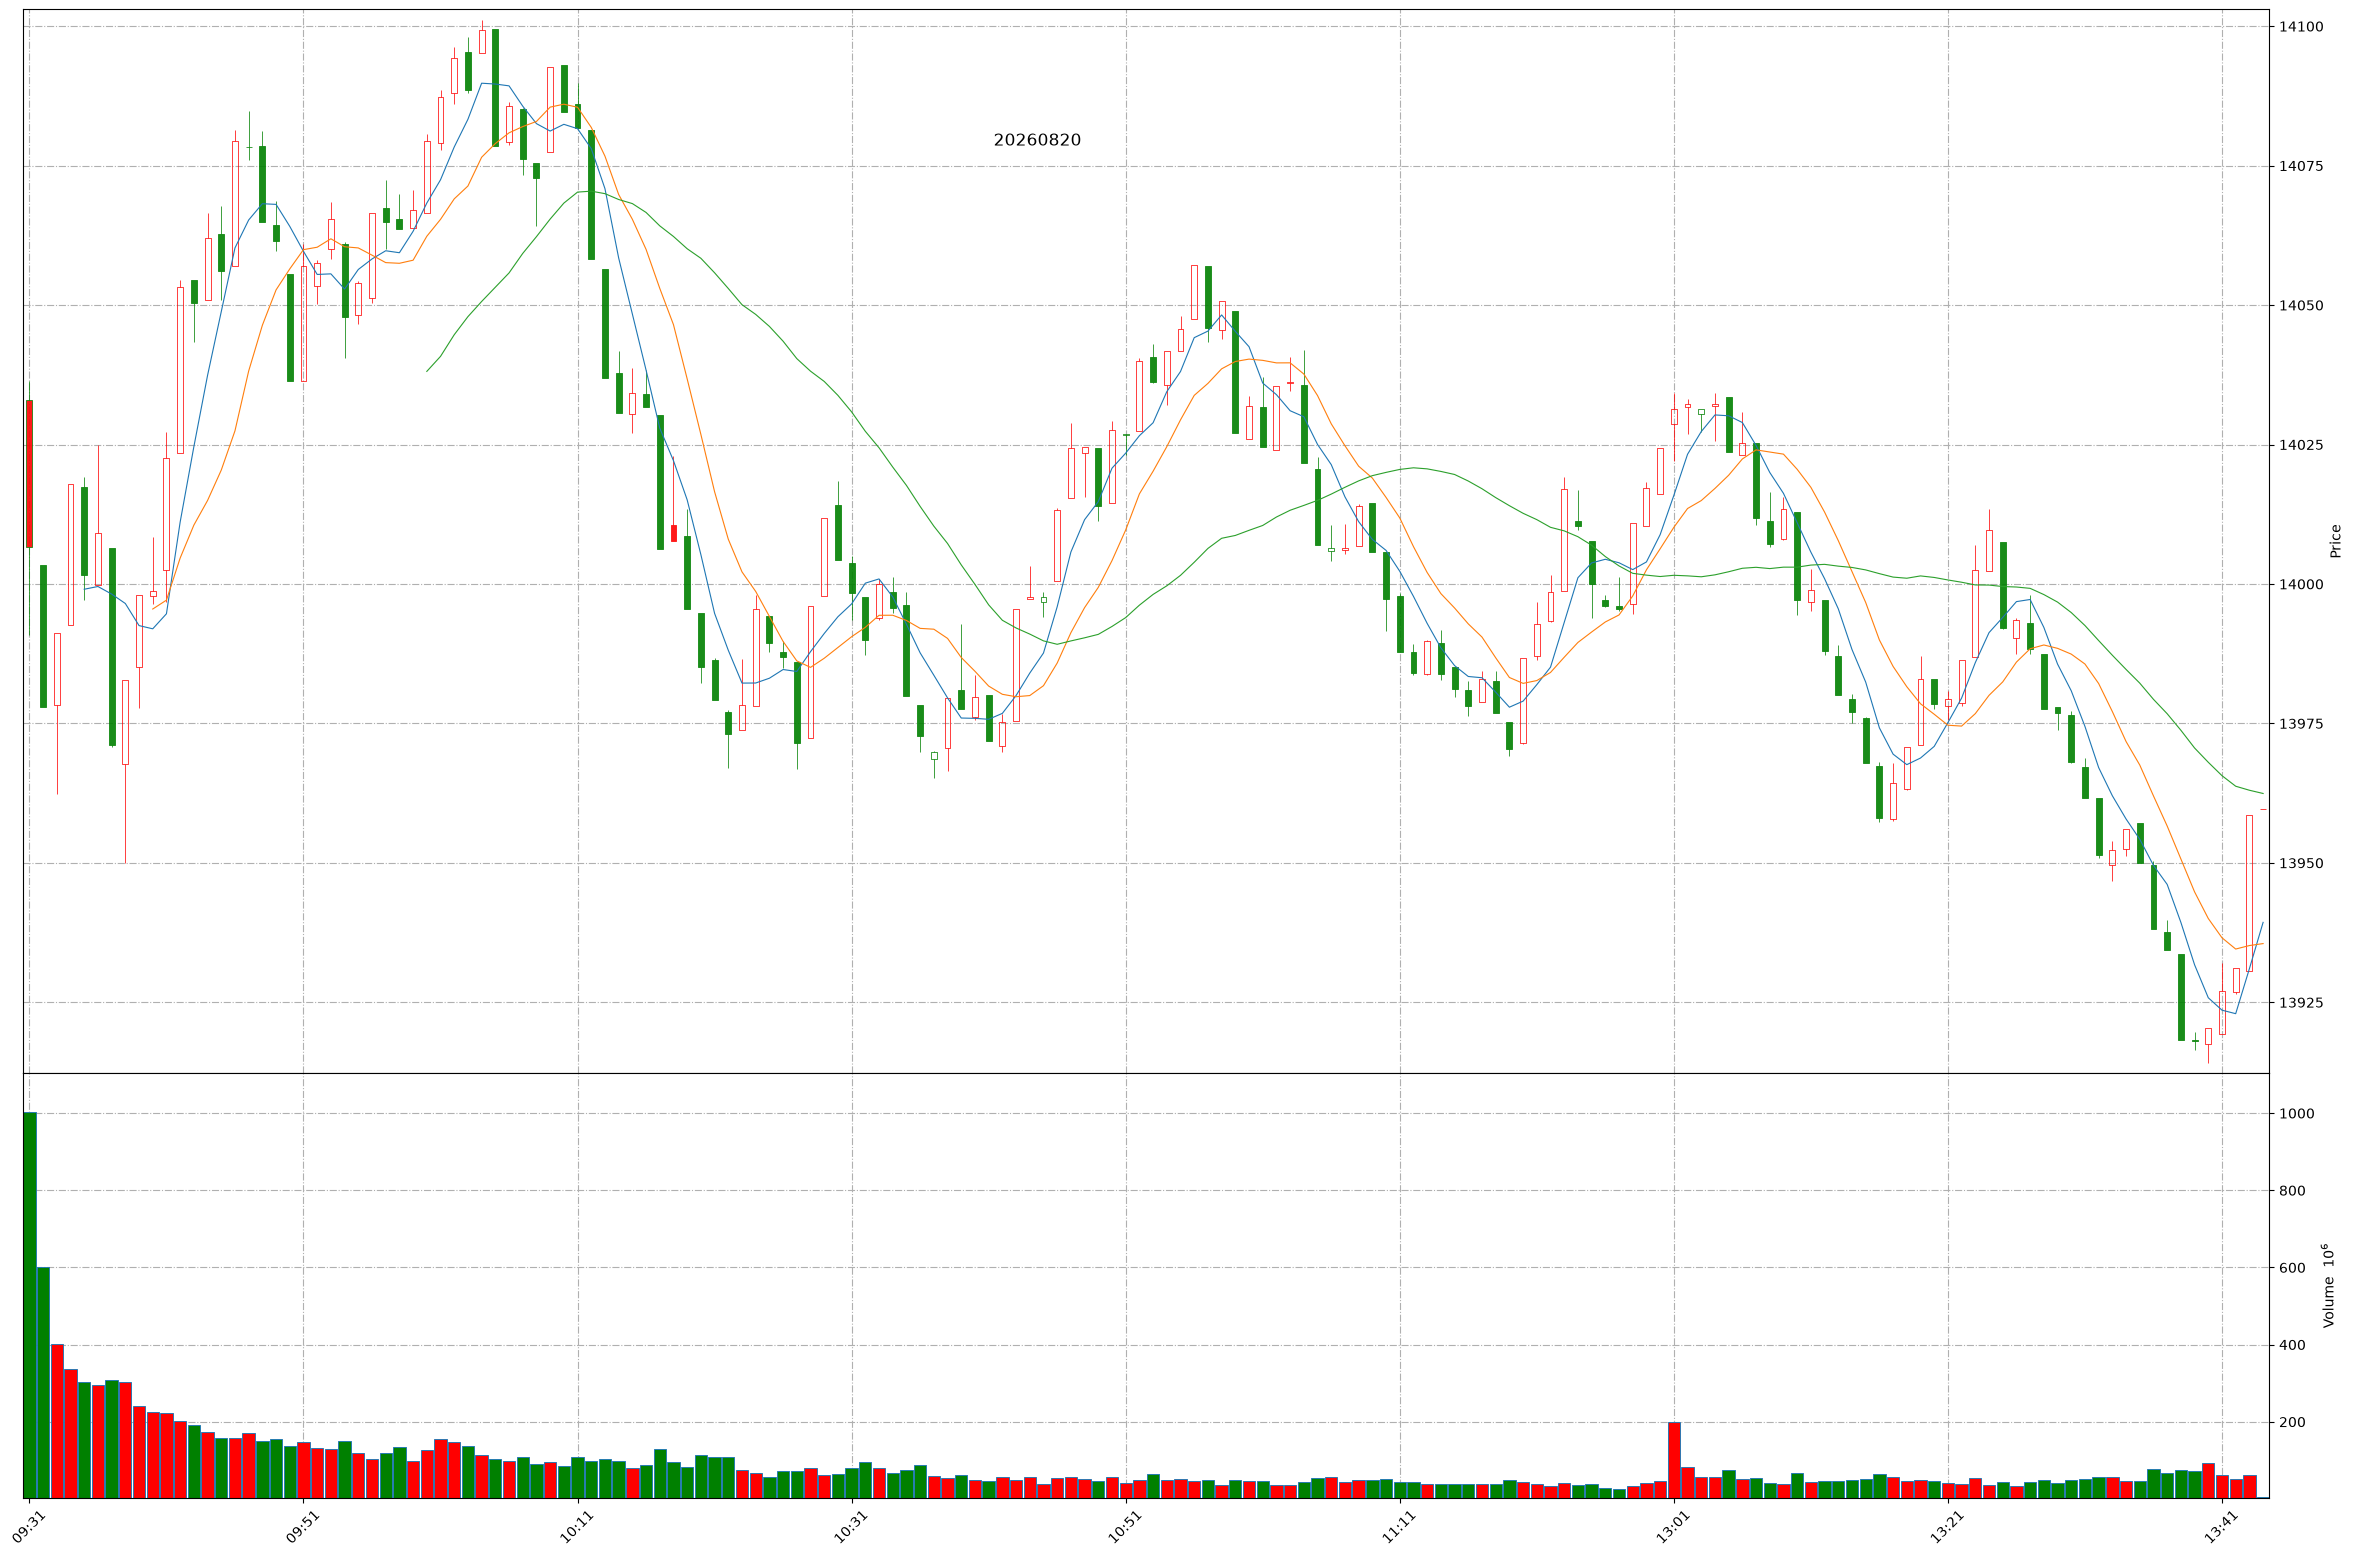
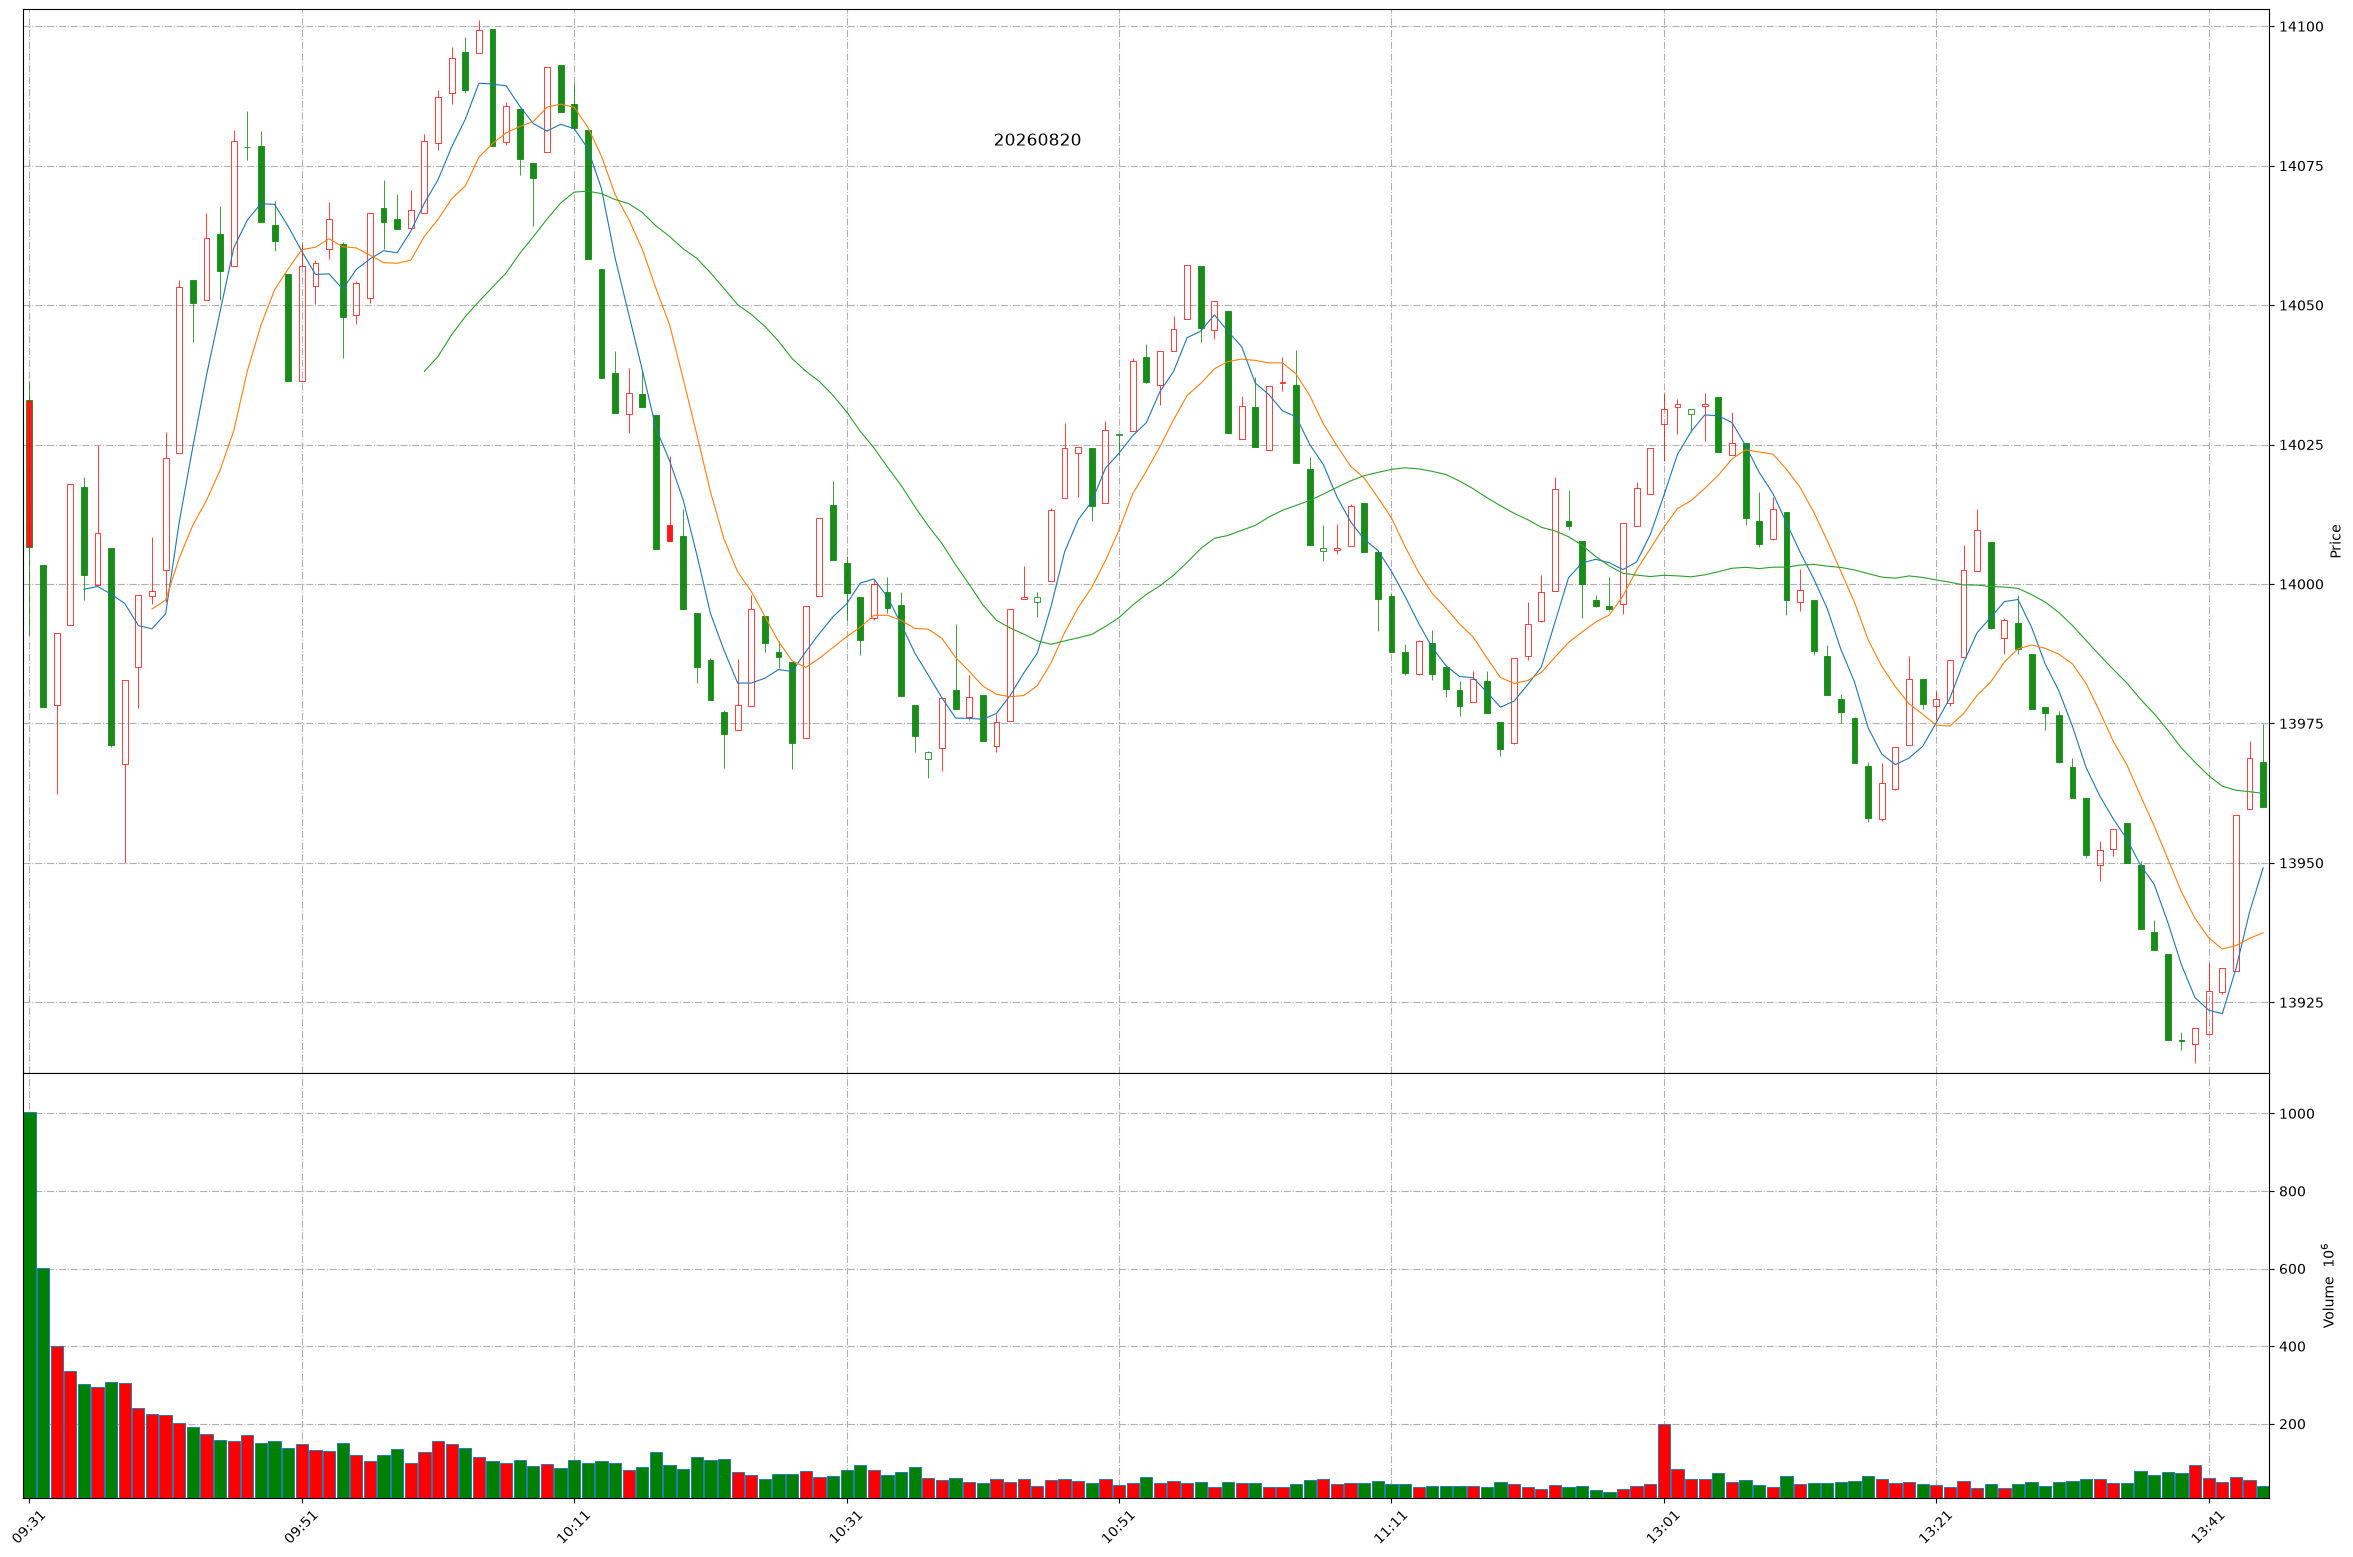
Github action update at 2026-08-20 13:45:00.

diff --git a/README.md b/README.md
@@ -1,11 +1,11 @@
 
 # Daily-A-share-market-quotes 每日 A 股指数（5min 更新）- 20260820
 
-### 上证指数 20260820 13:43
+### 上证指数 20260820 13:45
 ![](./fig/2026/8/20260820-sh000001.png)
 
-### 深证成指 20260820 13:43
+### 深证成指 20260820 13:45
 ![](./fig/2026/8/20260820-sz399001.png)
 
-### 北证50 20260820 13:43
+### 北证50 20260820 13:45
 ![](./fig/2026/8/20260820-bj899050.png)
